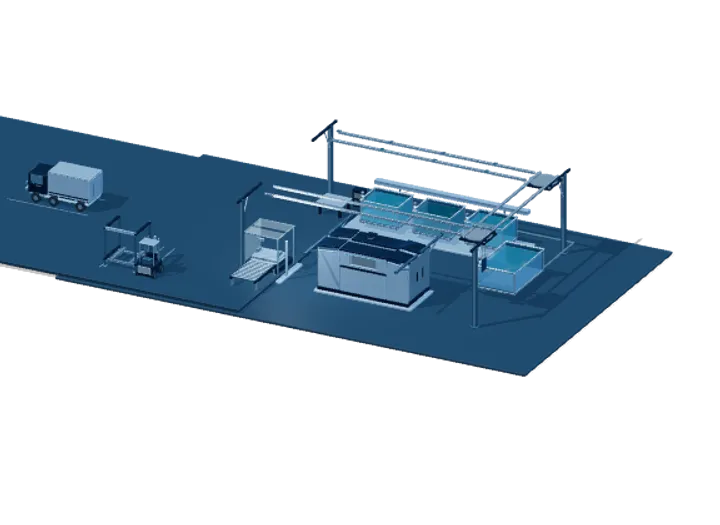
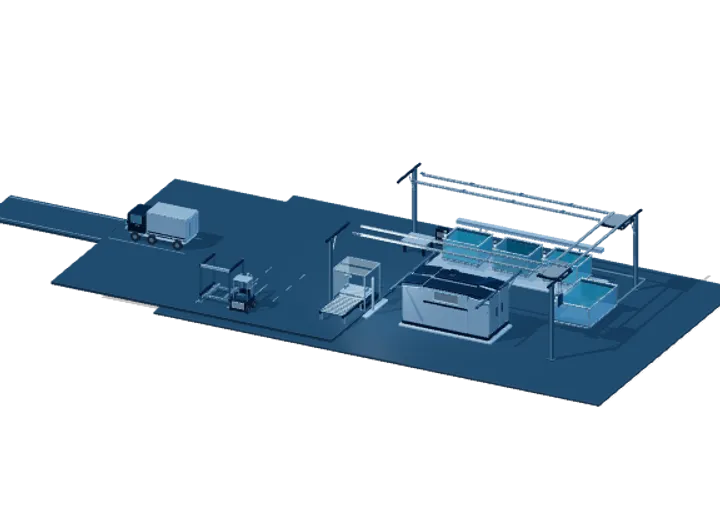
Frame the factory floor and distinguish the dock approach

Changed region(s): [[0.0, 0.2133, 1.0, 0.7924]]

diff --git a/components/technology/operating-renderer.ts b/components/technology/operating-renderer.ts
@@ -32,7 +32,12 @@ export async function mountOperatingScene(canvas:HTMLCanvasElement,host:HTMLElem
  // Separate equipment islands preserve the service aisle and both dock approaches.
  pad(2,factoryLayout.wetLineZ,9.8,2.7);pad(factoryLayout.ovenX,factoryLayout.returnLineZ,5.6,2.7);pad(-4,factoryLayout.returnLineZ,2.6,2.6);
  // Receiving and production share a level apron. The open centre is the lift aisle.
- box(root,[24,.18,16],[-15,-.09,0],foundation,.035);
+ box(root,[17,.18,15],[-11.5,-.09,0],foundation,.035);
+ // The approach road narrows outside the dock, leaving the working apron legible in overview.
+ box(root,[7,.18,3.2],[-23.5,-.09,0],foundation,.035);
+ for(const z of [-1.35,1.35])box(root,[7,.01,.055],[-23.5,.007,z],pearl,.003);
+ for(const x of [-8.09,-10.12])for(const z of [.9,2.5,4.1])
+  box(root,[.045,.008,.72],[x,.007,z],pearl,.002);
  for(const z of [-1.03,1.03])box(root,[4.6,.01,.045],[logisticsLayout.truckX-.85,.007,z],pearl,.002);
  for(const x of [logisticsLayout.rack.x-1.06,logisticsLayout.rack.x+1.06])box(root,[.045,.012,2.1],[x,.008,logisticsLayout.rack.z],pearl,.002);
  // A low services spine leaves the tank openings and suspended load visible.
@@ -257,7 +262,8 @@ export async function mountOperatingScene(canvas:HTMLCanvasElement,host:HTMLElem
   const aspect=canvas.clientWidth/Math.max(1,canvas.clientHeight),shot=factoryCameraShot(state,phone,aspect);
   const directed=!overview&&!selected;
   if(directed)target.fromArray(shot.target);
-  else target.set(overview||selected==='order'?0:focus[0],selected?1:0,overview||selected==='order'?0:focus[2]);
+  else if(overview||selected==='order')target.set(-5,1.1,0);
+  else target.set(focus[0],1,focus[2]);
   look.lerp(target,follow);
   const desiredSpan=overview?factoryOverviewSpan(aspect):directed?shot.span:selected==='quality'?6.2:15;
   viewSpan=T.MathUtils.lerp(viewSpan,desiredSpan,follow);

diff --git a/components/technology/factory-camera.ts b/components/technology/factory-camera.ts
@@ -9,7 +9,7 @@ export function factoryCameraOffset(yaw=0):[number,number,number]{
  // View the open rear of the trailer while retaining the Alpha line elevation.
  return [-x,y,z];
 }
-export const factoryOverviewSpan=(aspect:number)=>Math.max(13.3,37/aspect);
+export const factoryOverviewSpan=(aspect:number)=>Math.max(16.8,39/aspect);
 
 /** Authored holds keep the tank lip and inspection fixture stationary during contact. */
 export function factoryCameraShot(state:ReturnType<typeof operatingState>,_phone:boolean,aspect:number){
@@ -34,7 +34,7 @@ export function factoryCameraShot(state:ReturnType<typeof operatingState>,_phone
   {time:75,yaw:.45,span:view(7.4,10),target:dispatch,phase:'return'},
   {time:78.5,yaw:.45,span:view(5.8,8.6),target:dock,phase:'dispatch'},
   {time:82,yaw:.45,span:view(5.8,8.6),target:dock,phase:'departure'},
-  {time:90,yaw:0,span:factoryOverviewSpan(aspect),target:[-4,0,0],phase:'complete'},
+  {time:90,yaw:0,span:factoryOverviewSpan(aspect),target:[-5,1.1,0],phase:'complete'},
  ];
  let a=shots[0];
  for(const b of shots.slice(1)){
